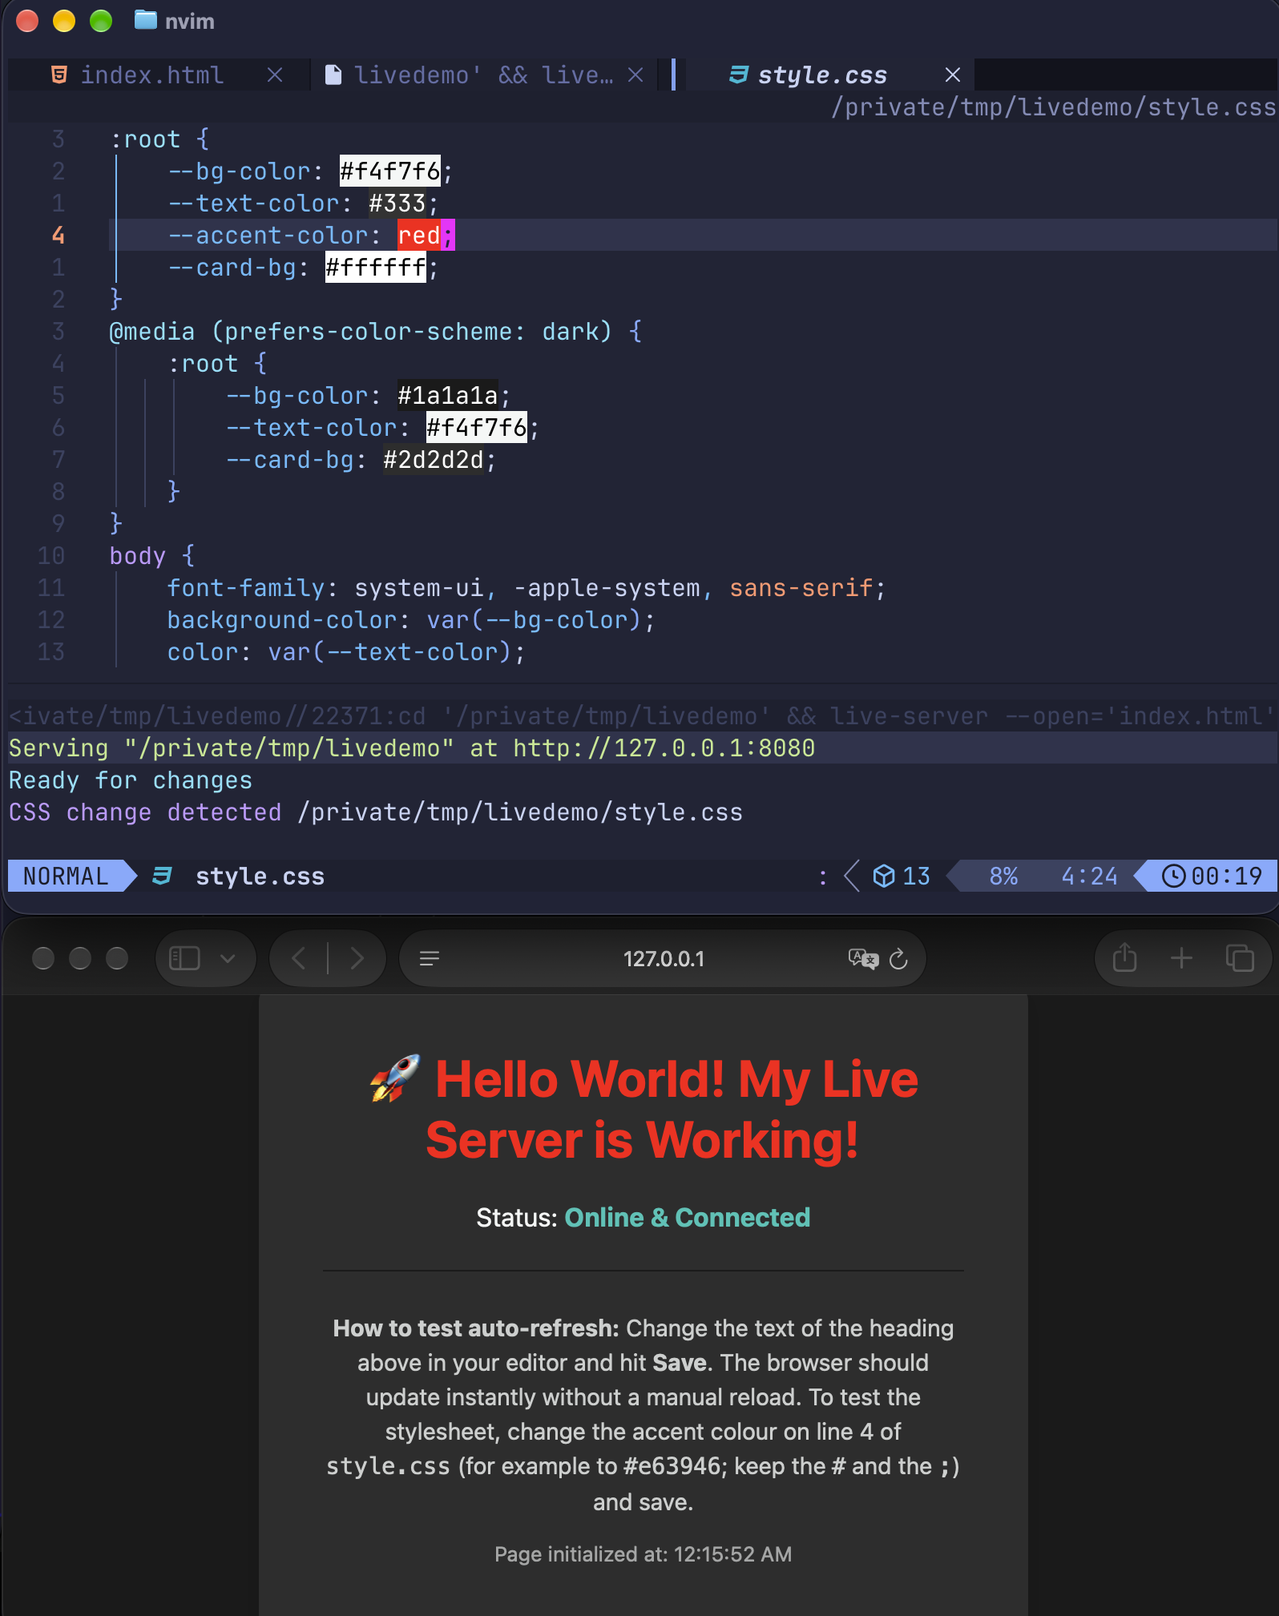
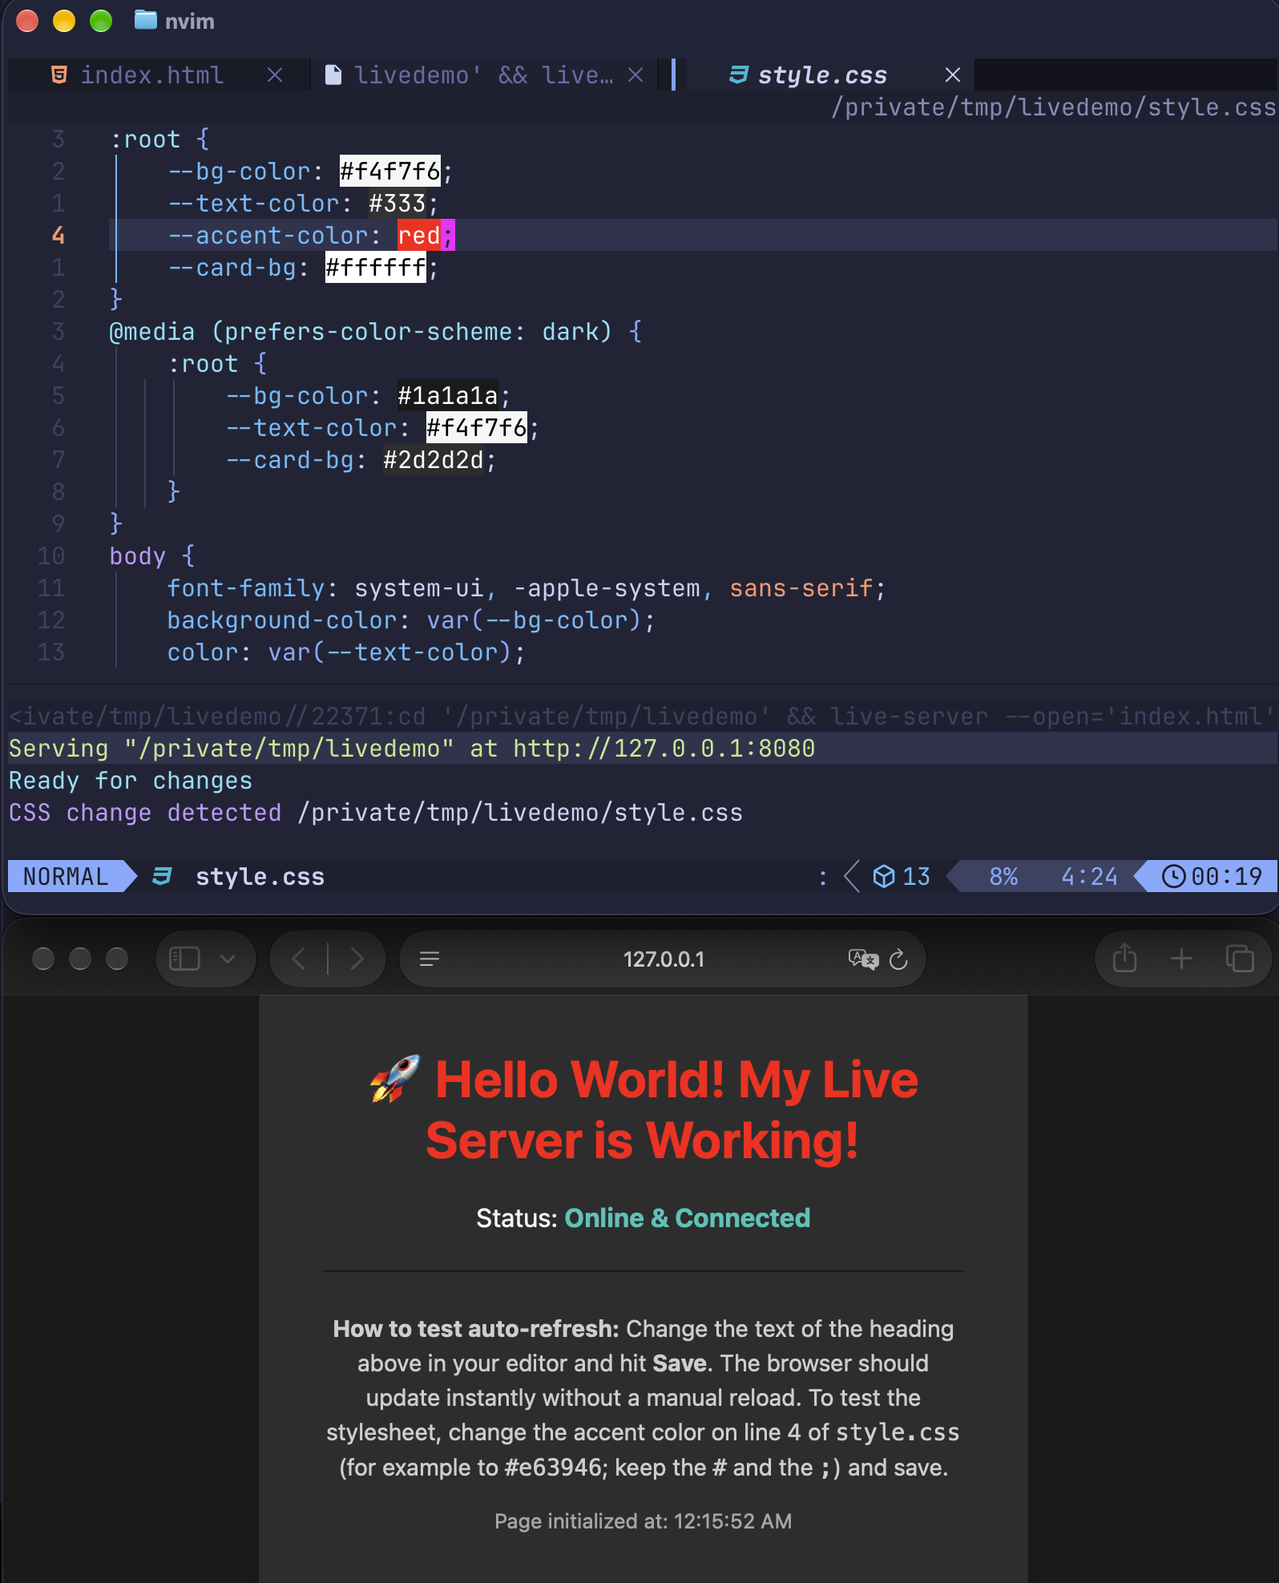
LazyVim write-ups: Bash support and image viewing

diff --git a/foundations/lazyvim-ide/lazyvim-playground-howto.md b/foundations/lazyvim-ide/lazyvim-playground-howto.md
@@ -1,12 +1,12 @@
-# Build Your Own LazyVim Coding Playground: One Key to Run Python, C, Java, Web, JavaScript & JSON
+# Build Your Own LazyVim Coding Playground: One Key to Run Python, C, Java, Web, JavaScript, Bash & JSON
 
 *By James Pearson · October 18, 2026 · Checked on macOS (Apple Silicon) · Linux notes included, but not fully verified*
 
-*Last updated: October 18, 2026*
+*Last updated: November 13, 2026*
 
 > **New here?** This is the hands-on guide. For the story behind it (why I built it and what broke along the way), read **[One Key to Run Them All](https://github.com/james-s-pearson/Cybersecurity-Portfolio/blob/main/foundations/lazyvim-ide/lazyvim-playground-story.md)**.
 
-By the end of this guide you'll have a terminal-based editor where you open a file in any of six languages, press **F5**, and see the result in a split next to your code. Plan on about **60–90 minutes**, most of it waiting on installs. I have a special interest in cybersecurity, and I built this as a place to practice the languages and formats that show up throughout the field. But you don't need a security background to follow along.
+By the end of this guide you'll have a terminal-based editor where you open a file in any of seven languages, press **F5**, and see the result in a split next to your code. Plan on about **60–90 minutes**, most of it waiting on installs. I have a special interest in cybersecurity, and I built this as a place to practice the languages and formats that show up throughout the field. But you don't need a security background to follow along.
 
 ![Python file and IPython output side by side](images/01-playground-python.png)
 
@@ -25,6 +25,7 @@ By the end of this guide you'll have a terminal-based editor where you open a fi
 | Java | Compiles with `javac` into a temporary folder, runs, then deletes that folder |
 | HTML / CSS | Starts a live-reloading browser preview |
 | JavaScript | Runs with Node.js |
+| Bash | Runs the script with `bash` |
 | JSON | Validates syntax and reports errors |
 
 Plus: persistent IPython shell splits, send-a-line, one-key close, force-stop, window hopping, and formatters for every language. A full shortcut cheat sheet is at the end.
@@ -40,7 +41,7 @@ Plus: persistent IPython shell splits, send-a-line, one-key close, force-stop, w
 - `zsh` as your shell (the macOS default). Linux users on `bash`, see the 🐧 note in Step 5.
 
 **Versions I tested with (as of October 2026):**
-- Neovim: v0.12.5 · Python: 3.13.7 · IPython: 9.5.0 · Java: OpenJDK 21.0.12.1 LTS (installed via Temurin 21) · Node.js: v26.9.0
+- Neovim: v0.12.5 · Python: 3.13.7 · IPython: 9.5.0 · Java: OpenJDK 21.0.12.1 LTS (installed via Temurin 21) · Node.js: v26.9.0 · Bash: 5.3.20 (Homebrew; added November 2026)
 
 ---
 
@@ -108,7 +109,7 @@ Extras I use:
 | `formatting.prettier` | Prettier for web files and Markdown (`prettier`) |
 | `editor.mini-diff` | Inline diff markers |
 | `util.dot`, `util.mini-hipatterns` | Dotfile support, color highlighting |
-You may see a few more packages in `:Mason` than the table lists (on my clean test build: `bash-language-server`, `lua-language-server`, `shellcheck`, `shfmt` and `stylua`). They are fine to leave installed.
+You may see a few more packages in `:Mason` than the table lists (on my clean test build: `lua-language-server` and `stylua`, plus `bash-language-server`, `shellcheck` and `shfmt`, which the Bash setup in Step 5 uses). They are fine to leave installed.
 
 ![LazyExtras list](images/03-lazyextras.png)
 
@@ -150,6 +151,8 @@ pip3 install ipython
 > 💡 **If `pip3 install ipython` fails** with an `externally-managed-environment` error, install IPython through Homebrew instead: `brew install ipython`. Current Homebrew Python blocks global `pip` installs (a protection called PEP 668), so readers on current Homebrew Python could hit this error.
 
 **C:** already installed with the Xcode command-line tools in Step 1. Check with `gcc --version`.
+
+**Bash:** already on your Mac. macOS includes an older Bash (3.2), which runs the test file fine. I use a current version from Homebrew (`brew install bash`). Check with `bash --version`.
 
 **Java** (Eclipse Temurin JDK 21):
 ```zsh
@@ -207,7 +210,7 @@ return {
       -- Find an active terminal channel (Split OR Float).
       -- kind "python" only accepts a visible IPython terminal (nil if none, so F5 prints its error message).
       -- kind "shell" only accepts a visible terminal that is not IPython, LazyGit or live-server (nil if none, so
-      -- the caller opens a new zsh split). With no kind, the first terminal found is used (the old behaviour).
+      -- the caller opens a new zsh split). With no kind, the first terminal found is used (the old behavior).
       local function get_active_terminal_job_id(kind)
         local fallback
         for _, buf in ipairs(vim.api.nvim_list_bufs()) do
@@ -246,7 +249,7 @@ return {
         vim.b.slime_config = { jobid = term_chan }
       end, { desc = "Python Shell: Horizontal Split" })
 
-      -- 3. SMART MULTI-LANGUAGE F5 KEYMAP (Python, C, Java, HTML, JS, JSON, & Markdown)
+      -- 3. SMART MULTI-LANGUAGE F5 KEYMAP (Python, C, Java, HTML, JS, Bash, JSON, & Markdown)
       vim.keymap.set("n", "<F5>", function()
         vim.cmd("w") -- Save the current file
 
@@ -358,6 +361,22 @@ return {
             vim.fn["slime#send"](js_run_cmd)
           end
 
+          -- BASH WORKFLOW (Run the script with bash in a shell terminal)
+        elseif file_ext == "sh" or file_ext == "bash" then
+          local bash_run_cmd = string.format("cd '%s' && clear && bash '%s'\n", filedir, filetail)
+          local target_chan = get_active_terminal_job_id("shell")
+          if target_chan then
+            vim.b.slime_config = { jobid = target_chan }
+            vim.fn["slime#send"](bash_run_cmd)
+          else
+            vim.cmd("vsplit | terminal zsh")
+            local term_buf = vim.api.nvim_get_current_buf()
+            local term_chan = vim.b[term_buf].terminal_job_id
+            vim.cmd("wincmd p")
+            vim.b.slime_config = { jobid = term_chan }
+            vim.fn["slime#send"](bash_run_cmd)
+          end
+
           -- MARKDOWN WORKFLOW (Open a browser preview; each Markdown file gets its own page)
         elseif file_ext == "md" or file_ext == "markdown" then
           -- Open only, never toggle: toggling one file stops the server and closes every preview
@@ -445,16 +464,45 @@ return {
 
 > 🐧 **Linux (bash users):** replace each `terminal zsh` in the file above with `terminal bash`.
 
+### Bash support (`bash.lua`)
+
+F5 already runs Bash scripts with the file above. For error checking and formatting while you write Bash, add one more file:
+
+```zsh
+nvim ~/.config/nvim/lua/plugins/bash.lua
+```
+
+```lua
+return {
+  -- Bash language server (bash-language-server is already installed through Mason; it also runs shellcheck)
+  {
+    "neovim/nvim-lspconfig",
+    opts = {
+      servers = {
+        bashls = {},
+      },
+    },
+  },
+  -- shfmt formatting for <leader>cf is already set by LazyVim; Mason keeps the tools installed
+  {
+    "mason-org/mason.nvim",
+    opts = { ensure_installed = { "bash-language-server", "shellcheck", "shfmt" } },
+  },
+}
+```
+
+Restart Neovim. Mason installs `bash-language-server`, which underlines mistakes as you type and uses `shellcheck` to explain them. `Space c f` formats the file with `shfmt` (Step 6).
+
 ### Known limitations
 
 - F5 finds your Python shell by the command it was started with, so an IPython you start by hand inside a plain shell isn't recognized. Open it with `Space r v` or `Space r h`.
 - A plain `python3` shell doesn't work with F5, because `%cd` and `%run` are IPython features. Support for it is planned for a future update.
 - Paths that contain an apostrophe, and Java files with a `package` line, aren't handled.
-- C, Java, JavaScript and JSON still clear the screen before each run. Only Python keeps earlier output.
+- C, Java, JavaScript, Bash and JSON still clear the screen before each run. Only Python keeps earlier output.
 
 ### How the runner works (in plain English)
 
-- **`get_active_terminal_job_id()`** looks through open windows for the right terminal. For Python it wants a *visible* IPython window. For C, Java, JavaScript and JSON it wants a visible plain shell (not IPython, LazyGit or the live-server window). If it finds none, F5 prints a message (Python) or opens a new split (the others). "Visible" matters: pressing `Ctrl + /` a second time hides the floating terminal while its shell keeps running, and a command sent there would show nothing.
+- **`get_active_terminal_job_id()`** looks through open windows for the right terminal. For Python it wants a *visible* IPython window. For C, Java, JavaScript, Bash and JSON it wants a visible plain shell (not IPython, LazyGit or the live-server window). If it finds none, F5 prints a message (Python) or opens a new split (the others). "Visible" matters: pressing `Ctrl + /` a second time hides the floating terminal while its shell keeps running, and a command sent there would show nothing.
 - **vim-slime** "types" a command into that terminal for you.
 - **The F5 function** reads the file extension and picks a recipe. Each language has its own branch, so changing one can't break another.
 - **Python is the special case.** It needs an IPython shell open first (`Space r v`), because that's what lets variables stay in memory after a run. Instead of clearing the screen, F5 prints a separator line with the file name and time, so earlier runs stay in the scrollback. Type `clear` when you want a blank screen.
@@ -530,7 +578,7 @@ cd Cybersecurity-Portfolio/foundations/lazyvim-ide/lazyvim-testfiles
 
 or on the repository page choose **Code → Download ZIP**, unzip it, and open the `foundations/lazyvim-ide/lazyvim-testfiles` folder.
 
-Open each file below in Neovim and press **F5**. If a test fails because a tool is missing (`gcc`, `javac`, `node`, `live-server` or `ipython`), go back to Step 4 and install it; the file is not the problem. The first time you press F5 on a C, Java, JavaScript or JSON file with no shell open, the runner opens a new shell split for you.
+Open each file below in Neovim and press **F5**. If a test fails because a tool is missing (`gcc`, `javac`, `node`, `live-server` or `ipython`), go back to Step 4 and install it; the file is not the problem. The first time you press F5 on a C, Java, JavaScript, Bash or JSON file with no shell open, the runner opens a new shell split for you.
 
 ### Python (`hello.py`)
 
@@ -561,6 +609,10 @@ Open a Python shell first with `Space r v` (or `Space r h` for a horizontal spli
 ### JavaScript (`hello.js`)
 
 ✅ **Expect:** a start line, `Status: Success`, your Node version, `Unicode Check: ✅ 🚀`, a timestamp, a passed logic check and an end line. If the two symbols show as boxes, your terminal font needs fixing (see Step 1).
+
+### Bash (`hello.sh`)
+
+✅ **Expect:** a start line, `Status: Success`, your Bash version, `Unicode Check: ✅ 🚀`, a timestamp, a math check (`5 + 10 = 15`), a passed logic check and an end line.
 
 ### JSON (`valid.json`)
 
@@ -632,7 +684,7 @@ The script writes one tiny file next to itself and deletes it, so nothing is lef
 
 ## Step 8 (optional): Quality-of-life add-ons
 
-Everything above gives you the full one-key playground. Step 8 is optional. It covers F5 for Markdown files, one plugin I added after weeks of daily use because it made coding smoother, plus a note on other tools I use.
+Everything above gives you the full one-key playground. Step 8 is optional. It covers F5 for Markdown files, viewing images inside Neovim, one plugin I added after weeks of daily use because it made coding smoother, plus a note on other tools I use.
 
 ### F5 for Markdown: a live preview in your browser
 
@@ -692,9 +744,29 @@ return {
 
 Restart Neovim, then press `Space u u` to open or close the panel.
 
+### See images inside Neovim
+
+Open a photo or screenshot (`.png`, `.jpg` and similar) in Neovim and it shows the picture instead of the raw file. This uses the image viewer built into `snacks.nvim`, which comes with LazyVim but is off by default. It needs:
+
+- a terminal that supports the kitty graphics protocol. I tested it in Ghostty; the `snacks.nvim` documentation also lists Kitty, and WezTerm with limited support. Apple's Terminal app doesn't support it.
+- ImageMagick, for formats other than PNG: `brew install imagemagick`
+
+Create `~/.config/nvim/lua/plugins/snacks.lua`:
+
+```lua
+return {
+  "folke/snacks.nvim",
+  opts = {
+    image = { enabled = true },
+  },
+}
+```
+
+Restart Neovim and open an image file to try it. (My own `snacks.lua` in the `config` folder also has an empty picker section, which you can leave out.) I tried PDF previews too and left them out: they showed only the first page and needed Ghostscript, a large extra program, and the Mac's Preview app does that job better.
+
 ### Other tools on my machine
 
-Beyond the six languages in this guide, my Mason list also has tools for shell scripts (a fresh install already includes `bash-language-server`, `shellcheck` and `shfmt`), Go (`golangci-lint`), Git (`gitleaks`, `gitlint`), spell-checking code (`typos`), CSS (`csskit`, an all-in-one CSS toolchain written in Rust; I use Tailwind for my own CSS, so it's optional), and for JavaScript and Markdown: `eslint_d`, `prettierd`, `markdownlint` and `mdformat`. Installing a tool from Mason doesn't switch it on. On a clean build, formatting stayed on Prettier and the only active Markdown linter was `markdownlint-cli2`, so those four need their own configuration, which this guide doesn't cover. I'm not covering any of these tools here.
+Beyond the seven languages in this guide, my Mason list also has tools for Go (`golangci-lint`), Git (`gitleaks`, `gitlint`), spell-checking code (`typos`), CSS (`csskit`, an all-in-one CSS toolchain written in Rust; I use Tailwind for my own CSS, so it's optional), and for JavaScript and Markdown: `eslint_d`, `prettierd`, `markdownlint` and `mdformat`. Installing a tool from Mason doesn't switch it on. On a clean build, formatting stayed on Prettier and the only active Markdown linter was `markdownlint-cli2`, so those four need their own configuration, which this guide doesn't cover. I'm not covering any of these tools here.
 
 ---
 
@@ -706,7 +778,7 @@ Beyond the six languages in this guide, my Mason list also has tools for shell s
 | `F6` | Close the terminal you're in, or the newest visible runner terminal |
 | `Space r v` / `Space r h` | Open a Python (IPython) shell, vertical / horizontal |
 | `Ctrl+c Ctrl+c` | Send the current line to the shell |
-| `Ctrl + /` | Toggle LazyVim's terminal (it opens docked at the bottom of the screen). F5 can use it for C, Java, JavaScript and JSON, but not for Python (Python needs a shell opened with `Space r v` / `Space r h`) |
+| `Ctrl + /` | Toggle LazyVim's terminal (it opens docked at the bottom of the screen). F5 can use it for C, Java, JavaScript, Bash and JSON, but not for Python (Python needs a shell opened with `Space r v` / `Space r h`) |
 | `Ctrl + h / j / k / l` | Move to the window left / below / above / right (works from inside a terminal too) |
 | `Ctrl + o` (in a terminal) | Delete to end of line (sends `Ctrl + k` to the shell) |
 | `Ctrl + \` then `Ctrl + n` | Neovim's built-in way out of a terminal (two separate keystrokes; don't confuse with `Ctrl + /`) |

diff --git a/foundations/lazyvim-ide/lazyvim-testfiles/README.md b/foundations/lazyvim-ide/lazyvim-testfiles/README.md
@@ -5,9 +5,9 @@ coding environment described in [Foundations](../../README.md) works for each
 language. They are throwaway tests, not examples of my coding. An AI assistant
 helped draft them, as it did the setup they test.
 
-I checked every file on macOS (Python 3.13, Node 26, Java 21 and gcc). The
-runner should also work on Linux (an earlier partial test on Ubuntu-like Linux
-needed one shell fix, described in Step 4 of the [companion
+I checked every file on macOS (Python 3.13, Node 26, Java 21, gcc and Bash
+5.3). The runner should also work on Linux (an earlier partial test on
+Ubuntu-like Linux needed one shell fix, described in Step 4 of the [companion
 guide](https://github.com/james-s-pearson/Cybersecurity-Portfolio/blob/main/foundations/lazyvim-ide/lazyvim-playground-howto.md)),
 but the install steps and these exact files were not verified there. Windows
 is not covered.
@@ -38,6 +38,9 @@ result with the list below.
 - `hello.js`: JavaScript through Node. F5 prints a start line,
   `Status: Success`, your Node version, `Unicode Check: ✅ 🚀` (if the two
   symbols show as boxes, your terminal font needs fixing), a timestamp, a
+  passed logic check and an end line. It has a commented-out error line.
+- `hello.sh`: Bash. F5 prints a start line, `Status: Success`, your Bash
+  version, `Unicode Check: ✅ 🚀`, a timestamp, `Math Check: 5 + 10 = 15`, a
   passed logic check and an end line. It has a commented-out error line.
 - `valid.json`: JSON. F5 prints `JSON Structure is Valid!`.
 - `index.html` and `style.css`: a web page. F5 on `index.html` starts a Live
@@ -90,10 +93,10 @@ Both are deliberately messy but valid. In this setup, saving does not format
 
 ## Things to know
 
-- The first time you press F5 on a C, Java, JavaScript or JSON file with no
-  shell open, the runner opens a new shell split for you.
-- `hello.py` and `hello.js` each have a commented-out error line. Remove the
-  comment markers to see how your setup shows a failed run.
+- The first time you press F5 on a C, Java, JavaScript, Bash or JSON file
+  with no shell open, the runner opens a new shell split for you.
+- `hello.py`, `hello.js` and `hello.sh` each have a commented-out error line.
+  Remove the comment markers to see how your setup shows a failed run.
 - Compiled output is ignored by Git (see `.gitignore`), so running the tests
   does not dirty your clone.
 - You need `gcc`, `javac`, `node`, `live-server` and `ipython` installed for

diff --git a/foundations/lazyvim-ide/lazyvim-playground-story.md b/foundations/lazyvim-ide/lazyvim-playground-story.md
@@ -33,6 +33,7 @@ Here's the finished feature set. The headline is **F5**: open any supported file
 | **Java** | Compiles into a temporary folder, runs, then deletes that folder | `javac` → `java` → remove the temporary folder |
 | **HTML / CSS** | Launches a local web server and opens a browser preview that auto-refreshes on save | `live-server` |
 | **JavaScript** | Runs the script | Node.js |
+| **Bash** | Runs the script | `bash` |
 | **JSON** | Checks the file is valid and points to any syntax error | Node.js parser |
 
 On top of the one-key runner, I added:
@@ -199,7 +200,10 @@ Using it every day surfaced things a short test run never would. Here's what I f
 A few additions made day-to-day coding noticeably smoother:
 
 - **Undotree.** It shows my edit history as a tree, which made navigating undos much easier while I wrote code.
-- **A few extras beyond my six languages**, for shell scripts, Go, Git, spell-checking code and an extra CSS toolchain.
+- **Images inside Neovim.** Opening a photo or screenshot shows the picture instead of the raw file.
+- **A few extras beyond my seven languages**, for Go, Git, spell-checking code and an extra CSS toolchain.
+
+**F5 for Bash.** Bash became the seventh language. F5 on a `.sh` file runs it with `bash` in a shell split, the same way JavaScript runs, and a Bash language server underlines mistakes as I type. The how-to guide covers it in Steps 5 and 7.
 
 **F5 for Markdown.** I wanted Markdown files to work like code does: one key. Now F5 on a `.md` or `.markdown` file opens a live preview in the browser that updates as you type. Each file gets its own tab, and one shortcut closes them all.
 
@@ -243,9 +247,9 @@ These are all optional. The how-to guide covers them in [Step 8](https://github.
 ## What's next
 
 - Add F5 support for plain `python3` scripts in a future update (today it needs IPython, since `%run` only works there).
-- Bring the "keep earlier output" separator to C, Java, JavaScript and JSON, which still clear the screen first.
+- Bring the "keep earlier output" separator to C, Java, JavaScript, Bash and JSON, which still clear the screen first.
 - Replace `live-server` with something actively maintained.
-- Add support for more languages, such as Bash, Go, and Rust.
+- Add support for more languages, such as Go and Rust.
 - Use the playground for what it was built for: working through coding courses and security labs with less setup friction.
 
 ---

diff --git a/foundations/lazyvim-ide/config/README.md b/foundations/lazyvim-ide/config/README.md
@@ -1,0 +1,18 @@
+# Config files
+
+Copies of the Neovim config files that the
+[how-to guide](../lazyvim-playground-howto.md) builds, taken from my own
+setup so you can compare them with yours.
+
+- `repl.lua`: the one-key runner (F5) and the shell shortcuts (Step 5). Goes
+  in `~/.config/nvim/lua/plugins/`.
+- `bash.lua`: the Bash language server and tools (Step 5). Goes in
+  `~/.config/nvim/lua/plugins/`.
+- `formatting.lua`: on-demand formatting (Step 6). Goes in
+  `~/.config/nvim/lua/plugins/`.
+- `options.lua`: my full `options.lua`. The guide only asks you to add the
+  lines at its bottom (Step 6). Goes in `~/.config/nvim/lua/config/`.
+- `snacks.lua`: image viewing inside Neovim (Step 8, optional). Goes in
+  `~/.config/nvim/lua/plugins/`.
+
+An AI assistant helped draft this setup, as the guide explains.
